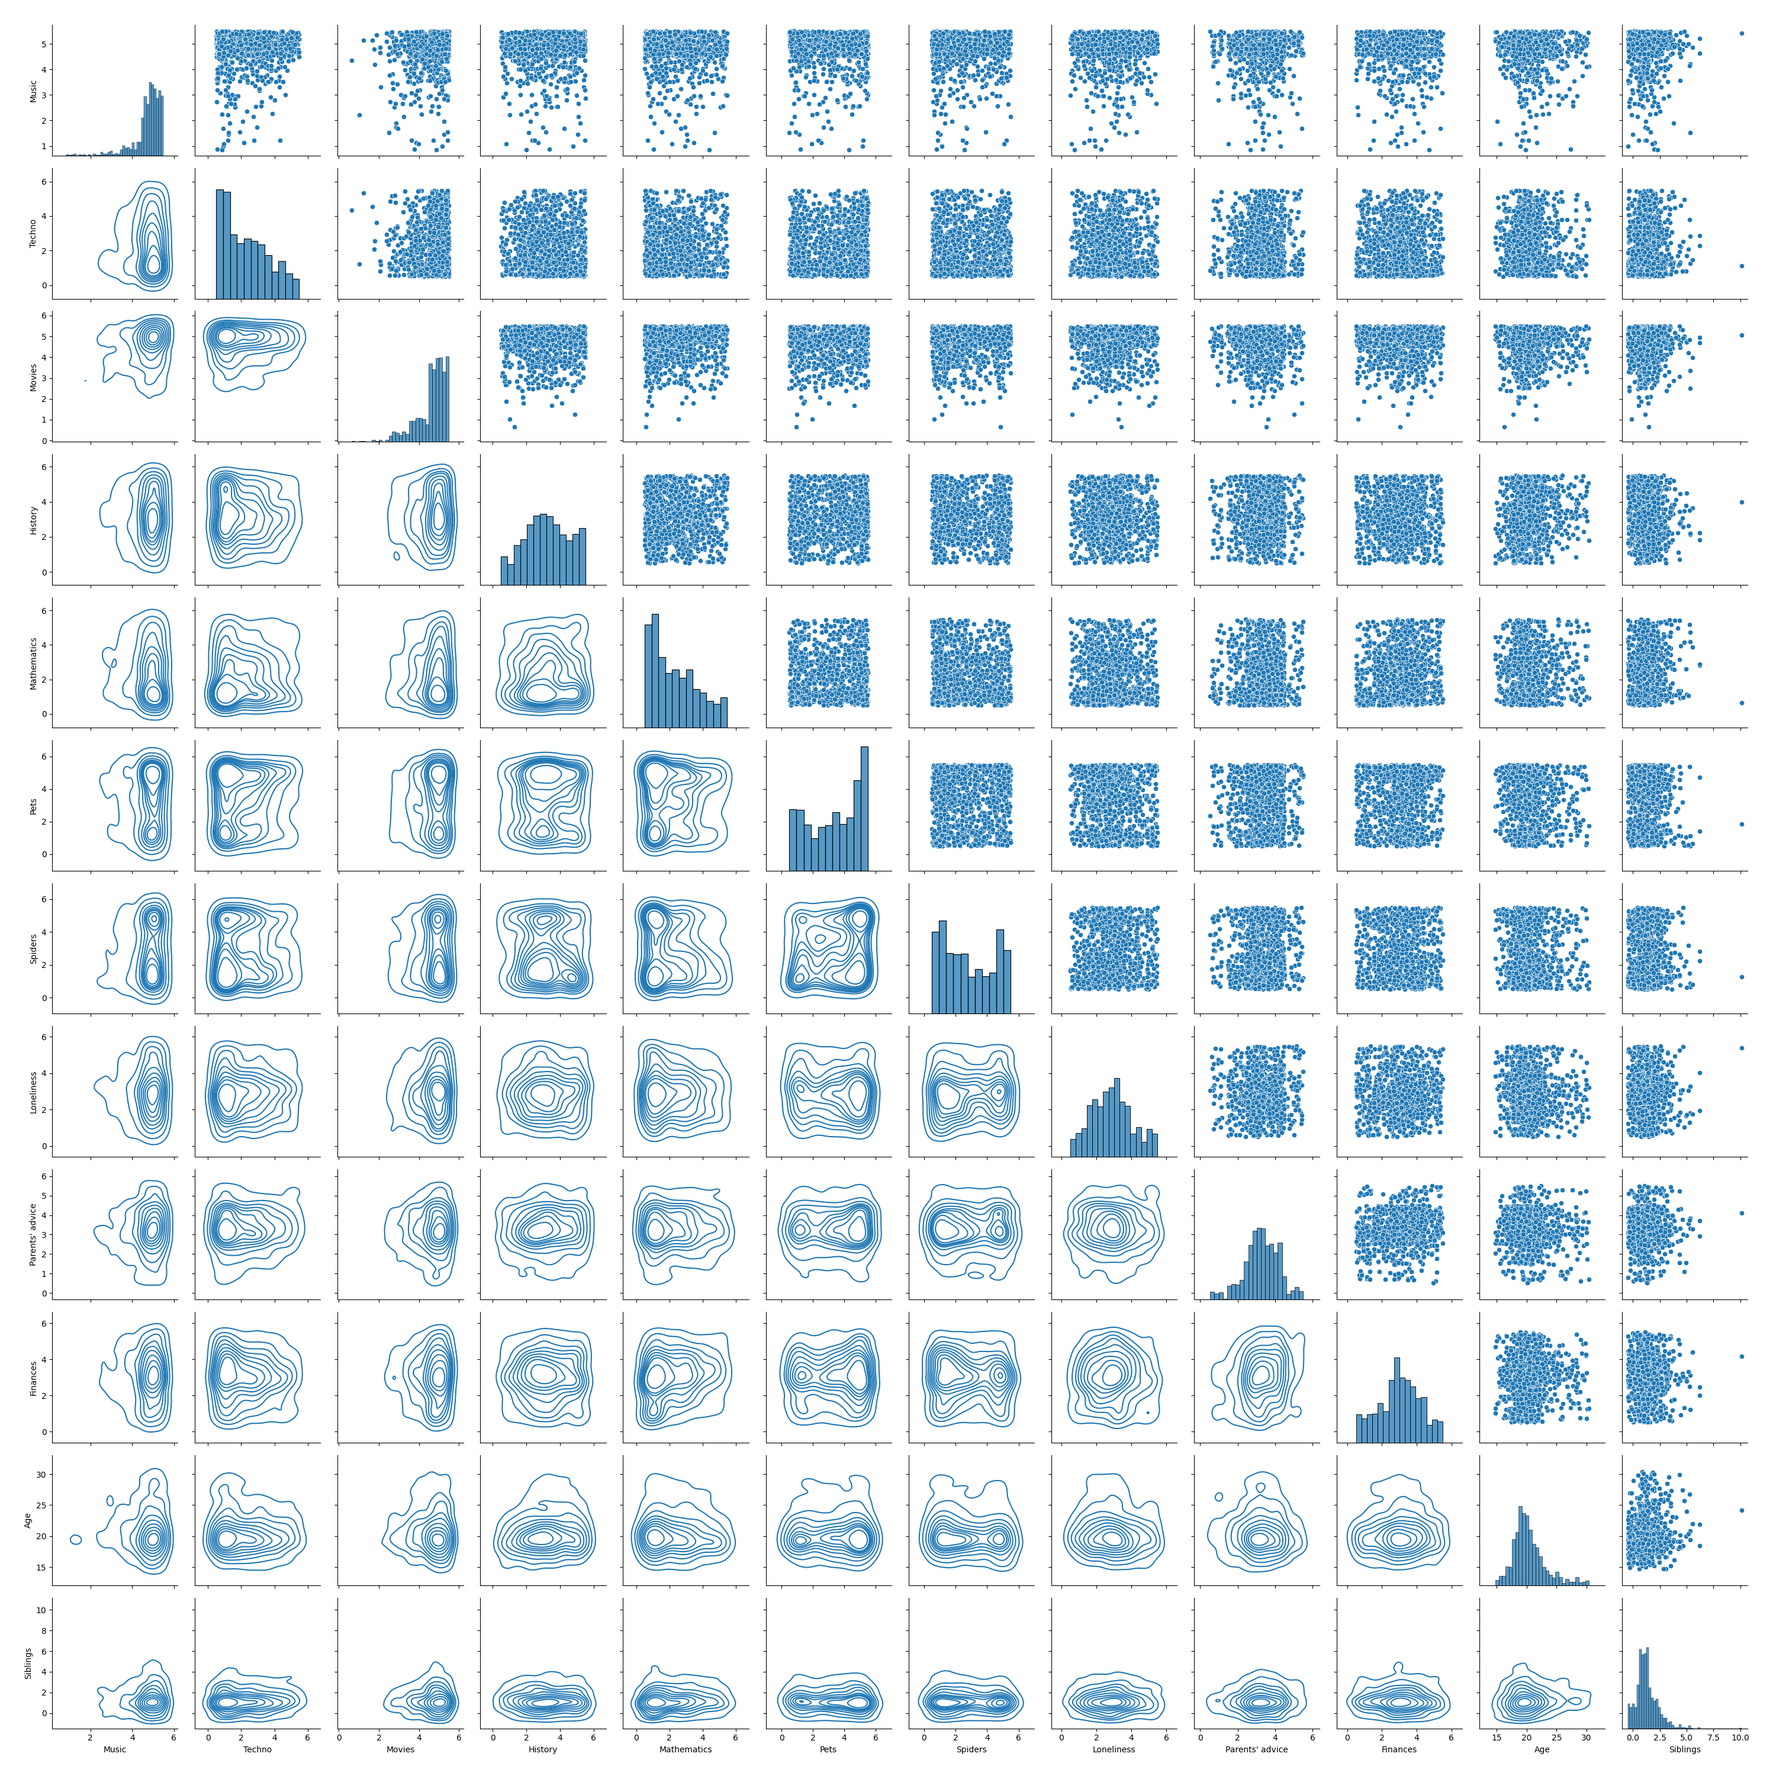
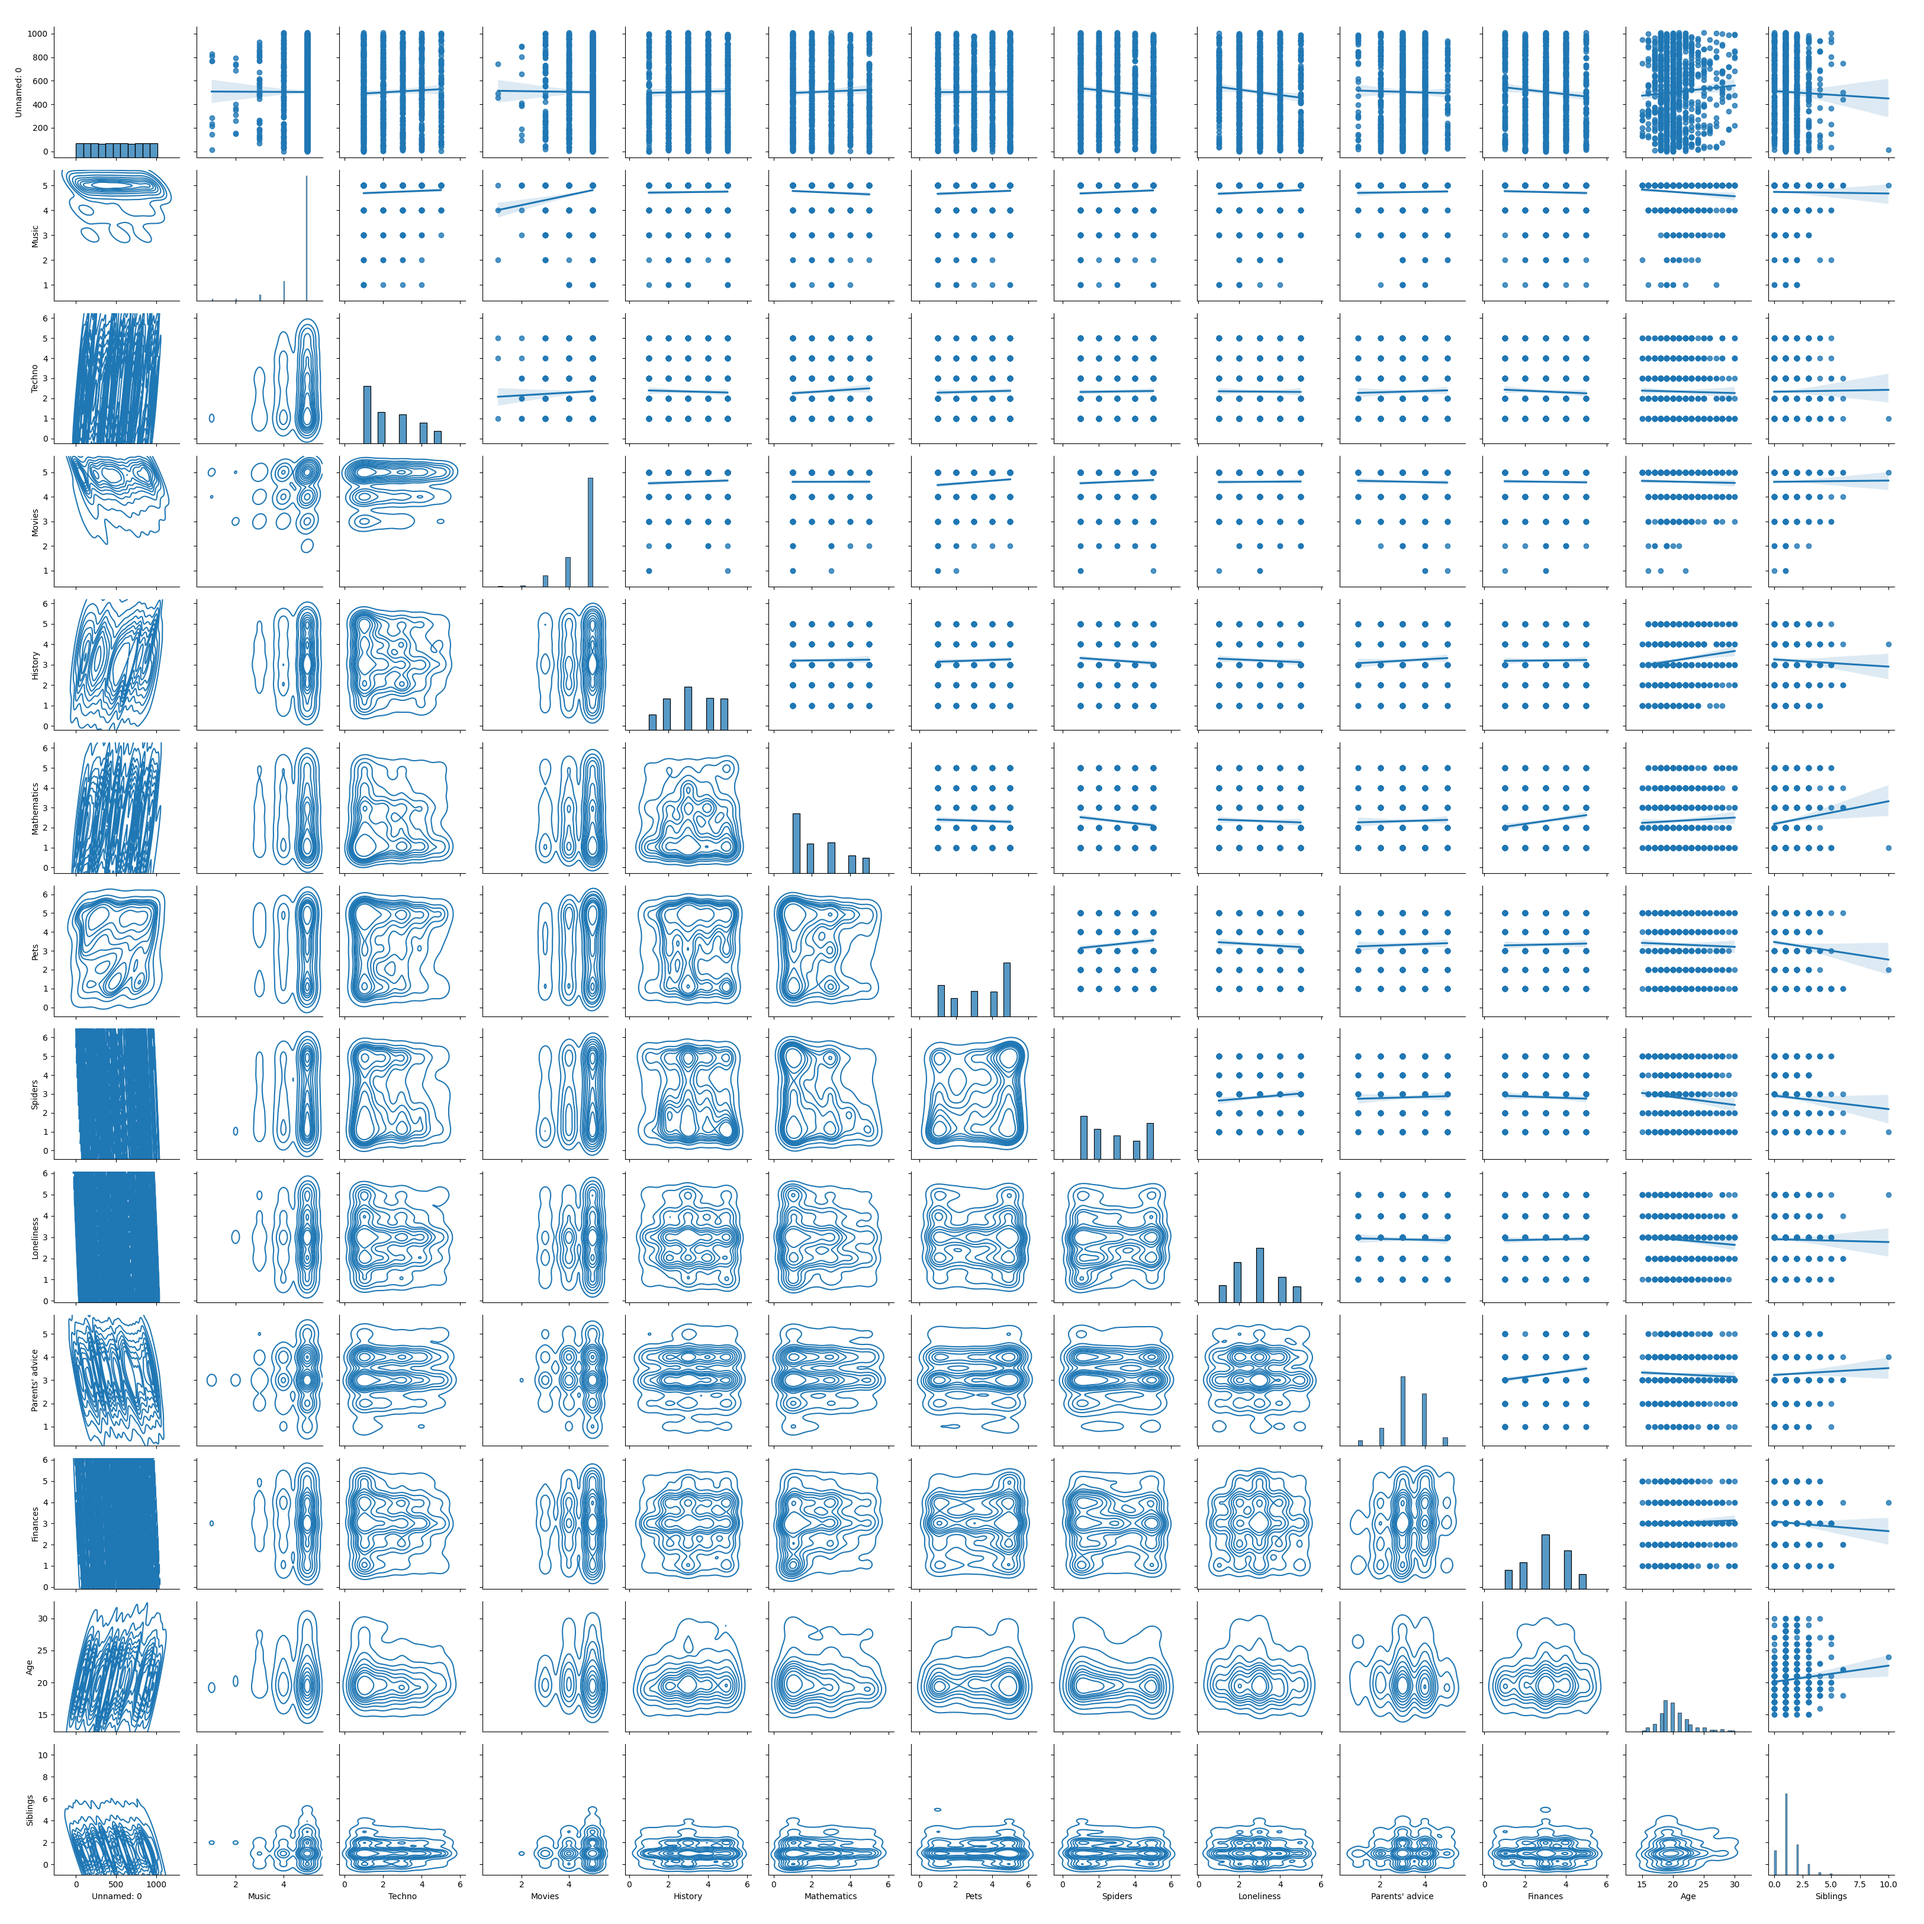
added correlation heatmap

diff --git a/main.py b/main.py
@@ -36,14 +36,28 @@ plt.savefig('target_distribution.png')
 #################################################
 # Part 2: Exploratory Data Analysis (EDA)
 #################################################
-# Select numeric columns, drop ID, and add jitter
-df_viz = df.select_dtypes(include=[np.number]).drop(columns=['Unnamed: 0'])
-df_viz += np.random.uniform(-0.5, 0.5, df_viz.shape)
+# pairplot with jitter
+# df_viz = df.select_dtypes(include=[np.number]).drop(columns=['Unnamed: 0'])
+# df_viz += np.random.uniform(-0.5, 0.5, df_viz.shape)
 # sns.pairplot(data=df_viz)
 # plt.savefig('pairplot.png')
 
-sns.PairGrid(data=df_viz).map_upper(sns.scatterplot).map_lower(sns.kdeplot).map_diag(sns.histplot)
-plt.savefig('kde_histplot_pairplot.png')
+# Pair grid with regplot and kde plot
+# sns.PairGrid(data=df).map_upper(sns.regplot).map_lower(sns.kdeplot).map_diag(sns.histplot)
+# plt.savefig('kde_histplot_pairplot.png')
+
+# Correlation Heatmap
+plt.figure(figsize=(20, 16))
+numeric_cols = df.select_dtypes(include=[np.number]).drop(columns=['Unnamed: 0'])
+correlation_matrix = numeric_cols.corr()
+sns.heatmap(correlation_matrix, annot=True, fmt='.2f', cmap='coolwarm', 
+            center=0, square=True, linewidths=0.5, cbar_kws={"shrink": 0.8})
+plt.title('Correlation Heatmap of Numeric Variables', fontsize=14, pad=20)
+plt.tight_layout()
+plt.savefig('correlation_heatmap.png', dpi=300, bbox_inches='tight')
+plt.close()
+
+
 
 #################################################
 # Part 3: Data Preprocessing
